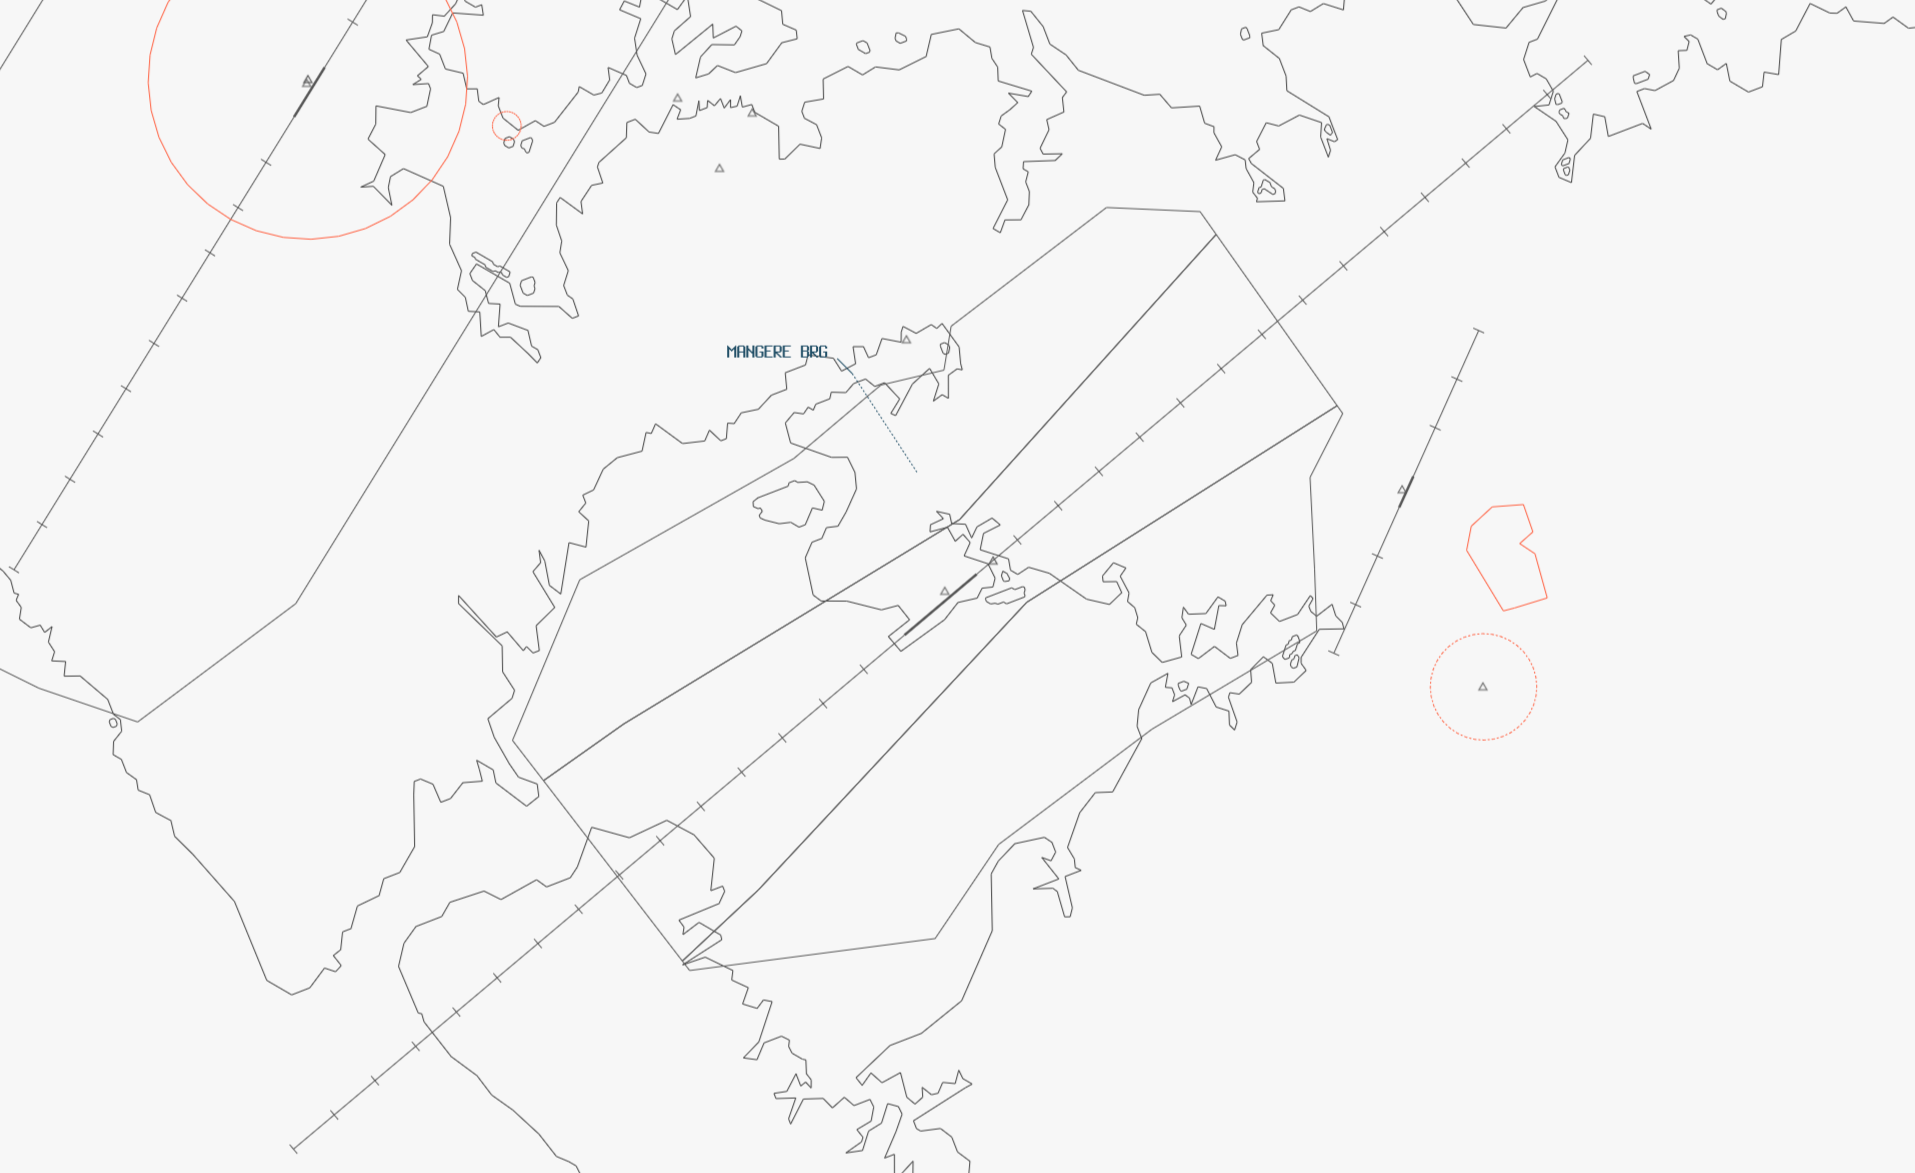
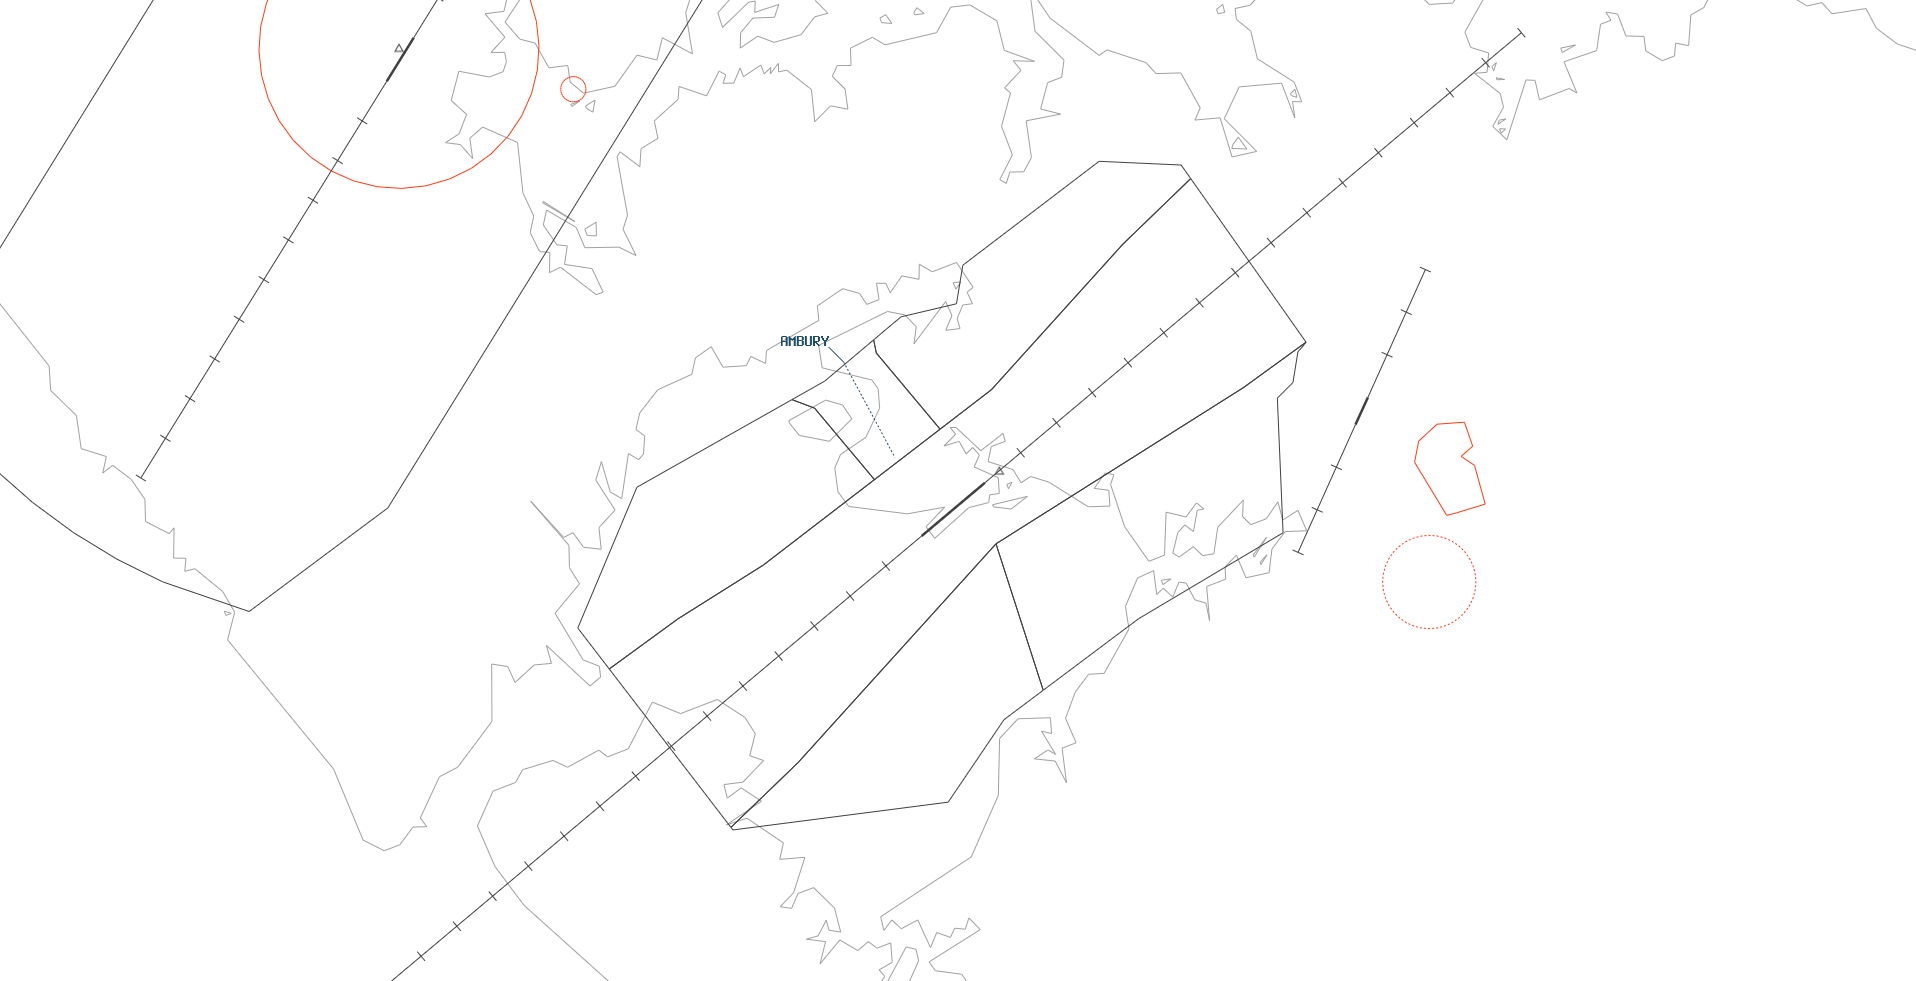
2412 SOPs changes
- Replaced nzaa-airspace-diagram
- Replaced MGRE bridge with Ambury, amended relevant vfr procs
- AVNAR #Q added, PAGLA #Q removed
- NZDN co-oord amended to maximum climb of FL250
- NZWN CTR/C amended, SE sector replaced by Turakirae sector

diff --git a/docs/aerodromes/Class-C/nzaa.md b/docs/aerodromes/Class-C/nzaa.md
@@ -140,7 +140,7 @@ For Domestic aircraft that are departing to the North or Northeast, the Controll
 | Runway | Procedure  | Allowed A/C Categories | Is divergent?                  | Notes                                                                                                                             |
 |--------|------------|------------------------|--------------------------------|-----------------------------------------------------------------------------------------------------------------------------------|
 | 05R    | `BROOK #Q` | Cat A to C             | Yes - >30° turn passing `A005` | Available to Cat C Jets for noise-abatement. AA TMA approval required.                                                            |
-| 05R    | `PAGLA #Q` | Cat A to D             | No                             | **Preferred departure for Cat C Jets**. Steep climb gradient - aircraft unable to meet this shall be given the `POLIS #Q`.        |
+| 05R    | `AVNAR #Q` | Cat A to D             | No                             | **Preferred departure for Cat C Jets**. Steep climb gradient - aircraft unable to meet this shall be given the `POLIS #Q`.        |
 | 05R    | `POLIS #Q` | Cat A to D             | No                             | **Preferred departure for Cat D Jets, or heavies**. Shallower climb gradient.                                                     |
 | 05R    | `REKIS #Q` | Cat A to D             | Yes - >30° turn passing `A005` | **Preferred departure for Props South**. May be given to jets provided they are comfortable with the 180kt limitation at `VINOD`. |
 | 05R    | `EMRAG #Q` | Cat A to D             | No                             | Least preferred departure due to manual vectoring required.                                                                                         |
@@ -200,7 +200,7 @@ For all international departures the Controller shall issue the SID that is sugg
 | 1        | 05R    | `BROOK #Q`     | Cat A to C             | AA TMR approval not required during Noise Abatement hours.                             |
 | 2        | 05R    | `REKIS #Q`     | Cat A to D             | **Preferred departure for Props**. Shall not be issued to Jets during Noise Abatement. |
 | 3        | 05R    | `POLIS #Q`     | Cat A to D             | **Preferred departure for Cat D Jets, or heavies**. Shallower climb gradient.          |
-| 4        | 05R    | All other SIDs |                        | Use of the `PAGLA #Q` departure shall be avoided.                                      |
+| 4        | 05R    | All other SIDs |                        | Use of the `AVNAR #Q` departure shall be avoided.                                      |
 
 
 #### Runway 23L
@@ -230,7 +230,7 @@ OCR has three Noise Abatement STARs that shall be issued as first preference. If
 
 ### Arrival
 
-In order to lessen the amount of instructions given to VFR traffic, the Controller shall issue the `Mangere Bridge` VFR arrival where possible. Once the Pilot reports overhead Mangere Town, the Controller shall integrate them with the circuit. [AIP Chart refers](https://www.aip.net.nz/assets/AIP/Aerodrome-Charts/Auckland-NZAA/NZAA_35.1_35.2.pdf){ target=new }.
+In order to lessen the amount of instructions given to VFR traffic, the Controller shall issue the `Ambury` VFR arrival where possible. Once the Pilot reports overhead Ambury Park, the Controller shall integrate them with the circuit. [AIP Chart refers](https://www.aip.net.nz/assets/AIP/Aerodrome-Charts/Auckland-NZAA/NZAA_35.1_35.2.pdf){ target=new }.
 
 !!! important
     If instructed to join via the overhead, it is the Controller's responsibilty to ensure that the missed approach is protected. A non-circuit side join may be given instead.
@@ -238,7 +238,7 @@ In order to lessen the amount of instructions given to VFR traffic, the Controll
 
 ### Departure
 
-In order to lessen the amount of instructions given to VFR traffic, the Controller shall issue the `Mangere Bridge` VFR departure at all times - ([AIP Chart](https://www.aip.net.nz/assets/AIP/Aerodrome-Charts/Auckland-NZAA/NZAA_64.1.pdf){ target=new }). Once the Pilot reaches Mangere Bridge, the aircraft shall be handed off to UNICOM or Approach where appropriate. 
+In order to lessen the amount of instructions given to VFR traffic, the Controller shall issue the `Ambury` VFR departure at all times - ([AIP Chart](https://www.aip.net.nz/assets/AIP/Aerodrome-Charts/Auckland-NZAA/NZAA_64.1.pdf){ target=new }). Once the Pilot reaches Ambury Park, the aircraft shall be handed off to UNICOM or Approach where appropriate. 
 
 If a departing VFR aircraft requests to climb into controlled airspace, this shall be coordinated with Approach. The Tower Controller may amend the clearance as they see fit while the aircraft is in their Control Zone, however must be coordinated with Approach if the ammendment changes their Control Area entry point.
 

diff --git a/docs/aerodromes/Class-C/nzch.md b/docs/aerodromes/Class-C/nzch.md
@@ -72,16 +72,16 @@ Pushback and startup clearances are managed by the Ground Controller. Due to the
 !!! info "Starting on Stand at the Terminal"
     Christchurch utilises W/E stands to allow for Props to park into the wind. Aircraft utilising these stands do not require a push-back, and may start on stand.
 
-| Stands / Gates    | Usage               | Has a W/E stand? | Pushback Location | Notes                                                                                  |
-| ----------------- | ------------------- | ---------------- | ----------------- | -------------------------------------------------------------------------------------- |
-| 3 and 4           | Cat B Props         | Yes, only        | N/A               | Designed for C208 or PC12 type aircraft                                                |
-| 5 to 8            | Turboprops          | Yes              | Twy `F`           | Both Nose-in, and W/E                                                                  |
-| 9, 11, 12, 13, 15 | Turboprops          | Yes              | Twy `F`           | Both Nose-in, and W/E                                                                  |
-| 10, 14            | Turboprops          | No               | Twy `F`           |                                                                                        |
-| 16                | Turboprops and Jets | No               | Twy `F`           |                                                                                        |
-| 17 to 22          | Turboprops and Jets | No               | Twy `A`           | Primarily for Jets, but turboprop capable                                              |
-| 26 to 28          | Jets                | No               | Twy `A`           | If Rwy 02 is active, Stand 28 shall be pushed clear of `A4`, or may be pushed on `A15` |
-| 29 to 35          | Jets                | No               | Twy `A15`         | International Stands                                                                   |
+| Stands / Gates    | Usage               | Has a W/E stand? | Pushback required? | Pushback Location | Notes                                                                 |
+| ----------------- | ------------------- | ---------------- | ------------------ | ----------------- |---------------------------------------------------------------------- |
+| 3 and 4           | Cat B Props         | Yes, only        | No                 | N/A               | Designed for C208 or PC12 type aircraft                               |
+| 5 to 8            | Turboprops          | Yes              | No                 | Twy `F`           | Both Nose-in, and W/E                                                 |
+| 9, 11, 12, 13, 15 | Turboprops          | Yes              | No                 | Twy `F`           | Both Nose-in, and W/E                                                 |
+| 10, 14            | Turboprops          | No               | No                 | Twy `F`           |                                                                       |
+| 16                | Turboprops and Jets | No               | No                 | Twy `F`           |                                                                       |
+| 17 to 22          | Turboprops and Jets | No               | **Yes**            | Twy `A`           | Primarily for Jets, but turboprop capable                             |
+| 26 to 28          | Jets                | No               | **Yes**            | Twy `A`           | If Rwy 02 is active, Stand 28 shall be pushed clear of `A4`           |
+| 29 to 35          | Jets                | No               | **Yes**            | Twy `A15`         | International Stands                                                  |
 
 #### Use of Holding Points
 
@@ -118,7 +118,8 @@ The Post Apron is on the northern side of `A4`, and is used by DHL, Qantas Freig
 
 The Romeo Apron is a transitional apron, and is commonly used by aircraft arriving at the aerodrome without a contracted parking location, or for overflow or long-term parking. 
 
-Aircraft utilising Stands R1A, R1B, and R3A stands may start on stand. Aircraft utilising Stands R1, R2 or R3 must be pushed onto `A15`.
+!!! info
+    Aircraft utilising Stands R1A, R1B, and R3A stands may start on stand. Aircraft utilising Stands R1, R2 or R3 must be pushed onto `A15`.
 
 #### Antarctic Apron
 

diff --git a/docs/aerodromes/Procedural/nzdn.md b/docs/aerodromes/Procedural/nzdn.md
@@ -126,6 +126,8 @@ Taieri is a small, uncontrolled GA aerodrome located 8nm Northeast of NZDN. Airc
 
 ## Coordination
 
+Dunedin may only climb aircraft to a maximum altitude of `FL250`. Aircraft requiring higher must seek further climb from a neigbouring surveillance sector, usually in their direction of travel.
+
 ### STH
 
 Tower is normally not required to advise STH of any departing IFR traffic, and may conduct a silent handover when aircraft crosses the common boundary, or when approaching the top of Tower's CTA. Except where previously coordinated, IFR aircraft shall cross the common airspace boundary overhead an IFR waypoint, or established on an airway.

diff --git a/docs/aerodromes/Class-C/nzwn.md b/docs/aerodromes/Class-C/nzwn.md
@@ -26,7 +26,7 @@
 
 ## Airspace
 
-The Wellington CTR/C follows the lateral boundaries as shown below from `SFC` to `A025`. The CTR/C comprises of seven sectors - Kelburn, West, Sinclar, South East, East, Somes and Instrument Sectors. 
+The Wellington CTR/C follows the lateral boundaries as shown below from `SFC` to `A025`. The CTR/C comprises of seven sectors - Kelburn, West, Sinclar, Turakirae, East, Somes and Instrument Sectors. 
 
 <figure markdown>
   ![Wellington Control Zone](./assets/nzwn-airspace.png)
